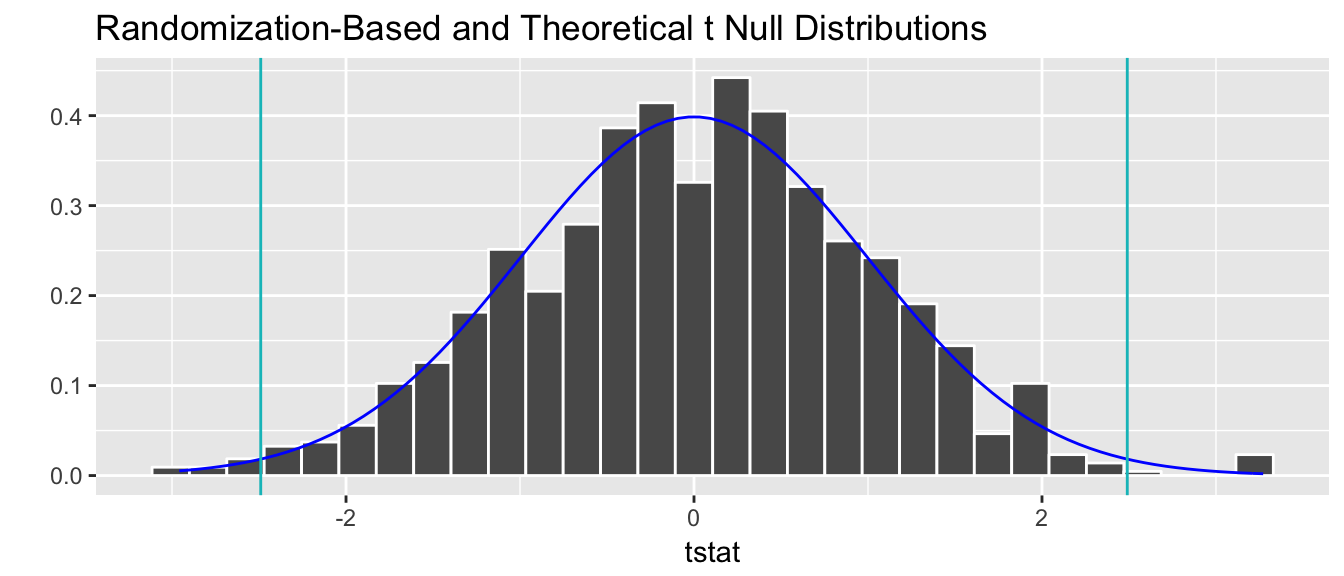
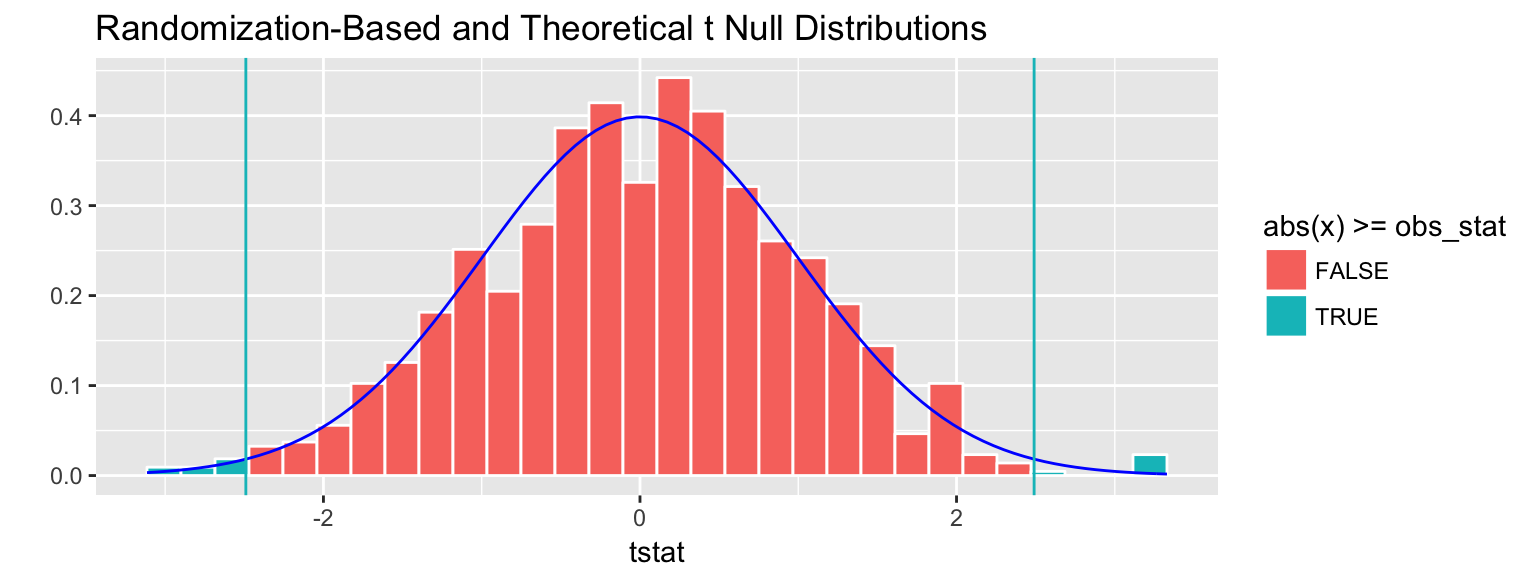
Update pkgdown

diff --git a/docs/articles/two_sample_t.html b/docs/articles/two_sample_t.html
@@ -81,7 +81,7 @@
       <h1>Two sample <span class="math inline">\(t\)</span> test example using <code>okcupiddata</code> <code>profiles</code> data</h1>
                         <h4 class="author">Chester Ismay</h4>
             
-            <h4 class="date">2017-10-15</h4>
+            <h4 class="date">2017-10-17</h4>
           </div>
 
     
@@ -141,17 +141,15 @@ prof_small &lt;-<span class="st"> </span>profiles <span class="op">%&gt;%</span>
 <span class="st">  </span><span class="kw"><a href="../reference/generate.html">generate</a></span>(<span class="dt">reps =</span> <span class="dv">1000</span>, <span class="dt">type =</span> <span class="st">"permute"</span>) <span class="op">%&gt;%</span>
 <span class="st">  </span><span class="kw"><a href="../reference/calculate.html">calculate</a></span>(<span class="dt">stat =</span> <span class="st">"t"</span>)
 t_null_distn <span class="op">%&gt;%</span><span class="st"> </span><span class="kw"><a href="../reference/visualize.html">visualize</a></span>(<span class="dt">obs_stat =</span> obs_t, <span class="dt">direction =</span> <span class="st">"two_sided"</span>)</code></pre></div>
-<p><img src="two_sample_t_files/figure-html/unnamed-chunk-5-1.png" width="672"></p>
+<p><img src="two_sample_t_files/figure-html/unnamed-chunk-5-1.png" width="768"></p>
 </div>
-<div id="calculate-the-p-value" class="section level2">
+<div id="calculate-the-randomization-based-p-value" class="section level2">
 <h2 class="hasAnchor">
-<a href="#calculate-the-p-value" class="anchor"></a>Calculate the <span class="math inline">\(p\)</span>-value</h2>
+<a href="#calculate-the-randomization-based-p-value" class="anchor"></a>Calculate the randomization-based <span class="math inline">\(p\)</span>-value</h2>
 <div class="sourceCode"><pre class="sourceCode r"><code class="sourceCode r">t_null_distn <span class="op">%&gt;%</span><span class="st"> </span>
-<span class="st">  </span>dplyr<span class="op">::</span><span class="kw"><a href="http://dplyr.tidyverse.org/reference/summarise.html">summarize</a></span>(<span class="dt">p_value =</span> <span class="kw">mean</span>(<span class="kw">abs</span>(stat) <span class="op">&gt;=</span><span class="st"> </span>obs_t))</code></pre></div>
-<pre><code>## # A tibble: 1 x 1
-##   p_value
-##     &lt;dbl&gt;
-## 1   0.011</code></pre>
+<span class="st">  </span>dplyr<span class="op">::</span><span class="kw"><a href="http://dplyr.tidyverse.org/reference/summarise.html">summarize</a></span>(<span class="dt">p_value =</span> <span class="kw">mean</span>(<span class="kw">abs</span>(stat) <span class="op">&gt;=</span><span class="st"> </span>obs_t)) <span class="op">%&gt;%</span><span class="st"> </span>
+<span class="st">  </span>dplyr<span class="op">::</span><span class="kw"><a href="http://dplyr.tidyverse.org/reference/pull.html">pull</a></span>()</code></pre></div>
+<pre><code>## [1] 0.011</code></pre>
 </div>
 <div id="theoretical-distribution" class="section level2">
 <h2 class="hasAnchor">
@@ -161,7 +159,7 @@ t_null_distn <span class="op">%&gt;%</span><span class="st"> </span><span class=
 <span class="st">  </span><span class="kw"><a href="../reference/hypothesize.html">hypothesize</a></span>(<span class="dt">null =</span> <span class="st">"independence"</span>) <span class="op">%&gt;%</span>
 <span class="st">  </span><span class="co"># calculate(stat = "t") ## Not needed since t is implied based on variable types</span>
 <span class="st">  </span><span class="kw"><a href="../reference/visualize.html">visualize</a></span>(<span class="dt">method =</span> <span class="st">"theoretical"</span>, <span class="dt">obs_stat =</span> obs_t, <span class="dt">direction =</span> <span class="st">"two_sided"</span>)</code></pre></div>
-<p><img src="two_sample_t_files/figure-html/unnamed-chunk-7-1.png" width="672"></p>
+<p><img src="two_sample_t_files/figure-html/unnamed-chunk-7-1.png" width="768"></p>
 </div>
 <div id="overlay-appropriate-t-distribution-on-top-of-permuted-t-statistics" class="section level2">
 <h2 class="hasAnchor">
@@ -172,7 +170,16 @@ t_null_distn <span class="op">%&gt;%</span><span class="st"> </span><span class=
 <span class="st">  </span><span class="kw"><a href="../reference/generate.html">generate</a></span>(<span class="dt">reps =</span> <span class="dv">1000</span>, <span class="dt">type =</span> <span class="st">"permute"</span>) <span class="op">%&gt;%</span>
 <span class="st">  </span><span class="kw"><a href="../reference/calculate.html">calculate</a></span>(<span class="dt">stat =</span> <span class="st">"t"</span>) <span class="op">%&gt;%</span><span class="st"> </span>
 <span class="st">  </span><span class="kw"><a href="../reference/visualize.html">visualize</a></span>(<span class="dt">method =</span> <span class="st">"both"</span>, <span class="dt">obs_stat =</span> obs_t, <span class="dt">direction =</span> <span class="st">"two_sided"</span>)</code></pre></div>
-<p><img src="two_sample_t_files/figure-html/unnamed-chunk-8-1.png" width="672"></p>
+<p><img src="two_sample_t_files/figure-html/unnamed-chunk-8-1.png" width="768"></p>
+</div>
+<div id="compute-theoretical-p-value" class="section level2">
+<h2 class="hasAnchor">
+<a href="#compute-theoretical-p-value" class="anchor"></a>Compute theoretical p-value</h2>
+<div class="sourceCode"><pre class="sourceCode r"><code class="sourceCode r">prof_small <span class="op">%&gt;%</span><span class="st"> </span>
+<span class="st">  </span><span class="kw"><a href="../reference/t_test.html">t_test</a></span>(<span class="dt">formula =</span> age <span class="op">~</span><span class="st"> </span>sex) <span class="op">%&gt;%</span><span class="st"> </span>
+<span class="st">  </span>dplyr<span class="op">::</span><span class="kw"><a href="http://dplyr.tidyverse.org/reference/select.html">select</a></span>(p_value) <span class="op">%&gt;%</span><span class="st"> </span>
+<span class="st">  </span>dplyr<span class="op">::</span><span class="kw"><a href="http://dplyr.tidyverse.org/reference/pull.html">pull</a></span>()</code></pre></div>
+<pre><code>## [1] 0.0131864</code></pre>
 </div>
 </div>
 </div>
@@ -188,9 +195,10 @@ t_null_distn <span class="op">%&gt;%</span><span class="st"> </span><span class=
 <a href="#one-numerical-variable-one-categorical-2-levels">One numerical variable, one categorical (2 levels)</a><ul class="nav nav-pills nav-stacked">
 <li><a href="#calculate-observed-statistic">Calculate observed statistic</a></li>
       <li><a href="#randomization-approach-to-t-statistic">Randomization approach to t-statistic</a></li>
-      <li><a href="#calculate-the-p-value">Calculate the <span class="math inline">\(p\)</span>-value</a></li>
+      <li><a href="#calculate-the-randomization-based-p-value">Calculate the randomization-based <span class="math inline">\(p\)</span>-value</a></li>
       <li><a href="#theoretical-distribution">Theoretical distribution</a></li>
       <li><a href="#overlay-appropriate-t-distribution-on-top-of-permuted-t-statistics">Overlay appropriate <span class="math inline">\(t\)</span> distribution on top of permuted t-statistics</a></li>
+      <li><a href="#compute-theoretical-p-value">Compute theoretical p-value</a></li>
       </ul>
 </li>
       </ul>

diff --git a/docs/reference/visualize.html b/docs/reference/visualize.html
@@ -162,7 +162,7 @@ Can also specify "left", "right", or "both".</p></td>
     <span class='fu'><a href='generate.html'>generate</a></span>(<span class='kw'>reps</span> <span class='kw'>=</span> <span class='fl'>100</span>, <span class='kw'>type</span> <span class='kw'>=</span> <span class='st'>"permute"</span>) <span class='kw'>%&gt;%</span>
     <span class='fu'><a href='calculate.html'>calculate</a></span>(<span class='kw'>stat</span> <span class='kw'>=</span> <span class='st'>"t"</span>) <span class='kw'>%&gt;%</span>
     <span class='fu'>visualize</span>(<span class='kw'>method</span> <span class='kw'>=</span> <span class='st'>"randomization"</span>) <span class='co'>#default method</span>
-}</div><div class='img'><img src='visualize-4.png' alt='' width='700' height='432.632880098887' /></div><div class='input'>
+}</div><div class='img'><img src='visualize-1.png' alt='' width='700' height='432.632880098887' /></div><div class='input'>
 <span class='co'># Theoretical t distribution for </span>
 <span class='co'># one numerical response and one categorical predictor</span>
 <span class='co'># using t statistic</span>
@@ -173,7 +173,7 @@ Can also specify "left", "right", or "both".</p></td>
     <span class='fu'><a href='hypothesize.html'>hypothesize</a></span>(<span class='kw'>null</span> <span class='kw'>=</span> <span class='st'>"independence"</span>) <span class='kw'>%&gt;%</span>
     <span class='fu'><a href='calculate.html'>calculate</a></span>(<span class='kw'>stat</span> <span class='kw'>=</span> <span class='st'>"t"</span>) <span class='kw'>%&gt;%</span>
     <span class='fu'>visualize</span>(<span class='kw'>method</span> <span class='kw'>=</span> <span class='st'>"theoretical"</span>) <span class='co'>#default method</span>
-}</div><div class='img'><img src='visualize-5.png' alt='' width='700' height='432.632880098887' /></div><div class='input'>
+}</div><div class='img'><img src='visualize-2.png' alt='' width='700' height='432.632880098887' /></div><div class='input'>
 <span class='co'># Overlay theoretical distribution on top of randomized t-statistics</span>
 <span class='kw'>if</span>(<span class='fu'>require</span>(<span class='no'>dplyr</span>)) {
 <span class='no'>mtcars</span> <span class='kw'>%&gt;%</span>
@@ -183,7 +183,7 @@ Can also specify "left", "right", or "both".</p></td>
     <span class='fu'><a href='generate.html'>generate</a></span>(<span class='kw'>reps</span> <span class='kw'>=</span> <span class='fl'>100</span>, <span class='kw'>type</span> <span class='kw'>=</span> <span class='st'>"permute"</span>) <span class='kw'>%&gt;%</span>
     <span class='fu'><a href='calculate.html'>calculate</a></span>(<span class='kw'>stat</span> <span class='kw'>=</span> <span class='st'>"t"</span>) <span class='kw'>%&gt;%</span>
     <span class='fu'>visualize</span>(<span class='kw'>method</span> <span class='kw'>=</span> <span class='st'>"both"</span>)
-}</div><div class='img'><img src='visualize-6.png' alt='' width='700' height='432.632880098887' /></div></pre>
+}</div><div class='img'><img src='visualize-3.png' alt='' width='700' height='432.632880098887' /></div></pre>
   </div>
   <div class="col-md-3 hidden-xs hidden-sm" id="sidebar">
     <h2>Contents</h2>

diff --git a/docs/news/index.html b/docs/news/index.html
@@ -114,10 +114,18 @@
 <li>Created <code>pkgdown</code> site materials</li>
 <li>Added <code>obs_stat</code> and <code>shade_direction</code> arguments to <code><a href="../reference/visualize.html">visualize()</a></code>
 </li>
-<li>Not currently shading for <code>method = "both"</code>
+<li>Used internal <code>ggplot2</code> package functions suggested by @jimhester to shade density histogram appropriately</li>
+<li>
+<code>bin.R</code> copied from <code>ggplot2</code> for use here</li>
+<li>Shading not currently available for <code>method = "theoretical"</code><br>
 </li>
-<li>Adding theoretical distributions to <code><a href="../reference/visualize.html">visualize()</a></code> alone and as overlay</li>
-<li>Current implementations - Two sample $t$ - ANOVA $F$ - One proportion $z$</li>
+<li>Adding theoretical distributions to <code><a href="../reference/visualize.html">visualize()</a></code> alone and as overlay with current implementations being
+<ul>
+<li>Two sample t</li>
+<li>ANOVA F</li>
+<li>One proportion z</li>
+</ul>
+</li>
 </ul>
 </div>
     <div id="infer-0-0-1" class="section level1">

diff --git a/docs/reference/calculate.html b/docs/reference/calculate.html
@@ -145,7 +145,7 @@ used as a success in bootstrapping a one proportion confidence interval</p></td>
     <span class='fu'><a href='generate.html'>generate</a></span>(<span class='kw'>reps</span> <span class='kw'>=</span> <span class='fl'>100</span>, <span class='kw'>type</span> <span class='kw'>=</span> <span class='st'>"permute"</span>) <span class='kw'>%&gt;%</span>
     <span class='fu'>calculate</span>(<span class='kw'>stat</span> <span class='kw'>=</span> <span class='st'>"diff in props"</span>) <span class='kw'>%&gt;%</span>
     <span class='fu'><a href='visualize.html'>visualize</a></span>()
-}</div><div class='img'><img src='calculate-2.png' alt='' width='700' height='432.632880098887' /></div><div class='input'>
+}</div><div class='img'><img src='calculate-1.png' alt='' width='700' height='432.632880098887' /></div><div class='input'>
 <span class='co'># Confidence interval using bootstrapping for one proportion</span>
 <span class='kw'>if</span>(<span class='fu'>require</span>(<span class='no'>dplyr</span>)) {
     <span class='no'>mtcars</span> <span class='kw'>%&gt;%</span>

diff --git a/docs/articles/profiles_examples_both_methods.html b/docs/articles/profiles_examples_both_methods.html
@@ -81,7 +81,7 @@
       <h1>Randomization and Traditional Examples using <code>okcupiddata</code> <code>profiles</code> data</h1>
                         <h4 class="author">Chester Ismay</h4>
             
-            <h4 class="date">2017-10-15</h4>
+            <h4 class="date">2017-10-17</h4>
           </div>
 
     

diff --git a/docs/articles/profiles_examples.html b/docs/articles/profiles_examples.html
@@ -81,7 +81,7 @@
       <h1>Randomization Examples using <code>okcupiddata</code> <code>profiles</code> data</h1>
                         <h4 class="author">Chester Ismay</h4>
             
-            <h4 class="date">2017-10-15</h4>
+            <h4 class="date">2017-10-17</h4>
           </div>
 
     
